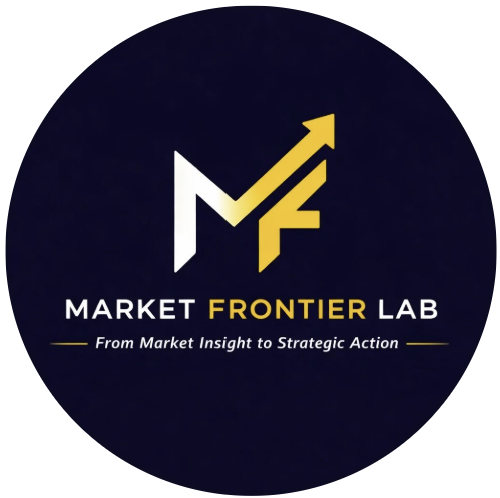
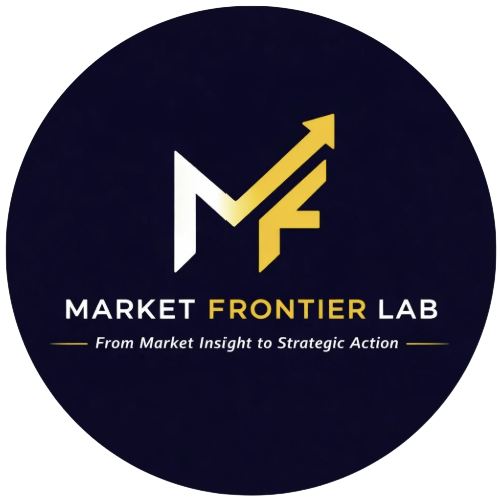
수정중임

diff --git a/index.html b/index.html
@@ -292,6 +292,15 @@
             text-shadow: 0 2px 10px rgba(0, 0, 0, 0.5);
         }
 
+        .hero-wallpaper-logo {
+            max-width: 160px;
+            height: auto;
+            margin-bottom: 35px;
+            object-fit: contain;
+            filter: drop-shadow(0 0 20px rgba(235, 194, 68, 0.35));
+            animation: float-slow 6s ease-in-out infinite;
+        }
+
         .hero-main-title {
             font-family: 'Noto Sans KR', sans-serif;
             font-size: 48px;
@@ -443,6 +452,7 @@
             display: grid;
             grid-template-columns: repeat(3, 1fr);
             gap: 24px;
+            margin-bottom: 80px;
         }
 
         .value-card {
@@ -688,7 +698,7 @@
             color: var(--point-navy);
         }
 
-        /* 📝 9. [COMMUNITY - 활동계획 & 활동기록] 타임라인 */
+        /* 📝 9. 타임라인 구조 (활동기록 & 활동계획 공통) */
         .timeline-container {
             position: relative;
             max-width: 800px;
@@ -1385,7 +1395,6 @@
                     <ul class="dropdown">
                         <li><a onclick="showPage('media')">미디어관</a></li>
                         <li><a onclick="showPage('feed')">피드</a></li>
-                        <li><a onclick="showPage('plan')">활동계획</a></li>
                         <li><a onclick="showPage('history')">활동기록</a></li>
                     </ul>
                 </li>
@@ -1560,7 +1569,7 @@
                     <div class="value-card">
                         <div class="value-num">01</div>
                         <div class="value-title">Market Insight</div>
-                        <p style="color:var(--text-muted); font-size:14px; line-height:1.6;">철저한 데이터 분석과 트렌드 리서치를 기반으로 한
+                        <p style="color:var(--text-muted); font-size:14px; line-height:1.6;">철저한 데이터 분석และ 트렌드 리서치를 기반으로 한
                             거시적/미시적 시장 해석 능력을 배양합니다.</p>
                     </div>
                     <div class="value-card">
@@ -1576,6 +1585,81 @@
                             인프라를 구축하여 동반 성장을 이룩합니다.</p>
                     </div>
                 </div>
+
+                <div class="reveal" style="margin-top: 40px;">
+                    <div style="margin-bottom: 35px; border-bottom: 1px solid var(--point-navy); padding-bottom: 15px;">
+                        <h3 style="font-size: 24px; font-weight: 900; color: var(--point-navy);">MFL 활동 계획</h3>
+                        <p style="color: var(--text-muted); font-size: 14px; margin-top: 5px;">마케팅과 브랜딩의 지평을 넓히기 위한 MFL만의 고품격 실무 커리큘럼입니다.</p>
+                    </div>
+                    <div class="timeline-container">
+                        <div class="timeline-block">
+                            <div class="timeline-icon" style="background-color: var(--point-gold);"></div>
+                            <div class="timeline-card">
+                                <div class="timeline-date">Curriculum 01</div>
+                                <h4 class="timeline-title">🎬 [MAIN] 실전 광고 제작 프로젝트</h4>
+                                <p class="timeline-desc">기획부터 촬영, 편집까지 직접 참여하며 포트폴리오에 떳떳하게 넣을 수 있는 실전 마케팅 경험을 쌓습니다.</p>
+                            </div>
+                        </div>
+                        <div class="timeline-block">
+                            <div class="timeline-icon"></div>
+                            <div class="timeline-card">
+                                <div class="timeline-date">Curriculum 02</div>
+                                <h4 class="timeline-title">📊 파이썬(Python) 활용 통계 프로그램</h4>
+                                <p class="timeline-desc">요즘 취업 시장 필수 역량! 실무 데이터 분석에 바로 활용하는 데이터 역량을 강화합니다.</p>
+                            </div>
+                        </div>
+                        <div class="timeline-block">
+                            <div class="timeline-icon"></div>
+                            <div class="timeline-card">
+                                <div class="timeline-date">Curriculum 03</div>
+                                <h4 class="timeline-title">🏢 기업 탐방 & 현직자 멘토링</h4>
+                                <p class="timeline-desc">실제 산업 현장을 방문하고, 가고 싶은 타겟 직무 현직자에게 직접 실무 인사이트를 체득합니다.</p>
+                            </div>
+                        </div>
+                        <div class="timeline-block">
+                            <div class="timeline-icon"></div>
+                            <div class="timeline-card">
+                                <div class="timeline-date">Curriculum 04</div>
+                                <h4 class="timeline-title">🎪 박람회 참관</h4>
+                                <p class="timeline-desc">최신 산업 트렌드를 직접 파악하고, 비즈니스 모델을 분석하는 안목을 기릅니다.</p>
+                            </div>
+                        </div>
+                        <div class="timeline-block">
+                            <div class="timeline-icon"></div>
+                            <div class="timeline-card">
+                                <div class="timeline-date">Curriculum 05</div>
+                                <h4 class="timeline-title">📈 금융 감각을 깨우는 모의투자 프로그램</h4>
+                                <p class="timeline-desc">시장을 분석하고 나만의 경제·금융 인사이트를 확장합니다.</p>
+                            </div>
+                        </div>
+                        <div class="timeline-block">
+                            <div class="timeline-icon"></div>
+                            <div class="timeline-card">
+                                <div class="timeline-date">Curriculum 06</div>
+                                <h4 class="timeline-title">📦 실전 스마트 SCM 공급망 최적화 프로젝트</h4>
+                                <p class="timeline-desc">시뮬레이션을 통해 채찍효과(Bullwhip Effect)를 직접 진단하고, 제조부터 소매까지의 전 과정에서 실시간 데이터
+                                    공유와 재고 최적화를 실현하는 실전 SCM 운영 능력을 기릅니다.</p>
+                            </div>
+                        </div>
+                        <div class="timeline-block">
+                            <div class="timeline-icon"></div>
+                            <div class="timeline-card">
+                                <div class="timeline-date">Curriculum 07</div>
+                                <h4 class="timeline-title">🗣️ 논리적 사고를 위한 CEDA 토론</h4>
+                                <p class="timeline-desc">논리력과 커뮤니케이션 역량을 키웁니다.</p>
+                            </div>
+                        </div>
+                        <div class="timeline-block">
+                            <div class="timeline-icon" style="background-color: var(--point-gold);"></div>
+                            <div class="timeline-card" style="border-left: 4px solid var(--point-gold);">
+                                <div class="timeline-date">Curriculum 08</div>
+                                <h4 class="timeline-title">🏆 실전 역량 강화를 위한 공모전 참여</h4>
+                                <p class="timeline-desc">팀원들과 협업하여 기획부터 결과 도출까지 진행하며, 실전 직무 성과를 증명하는 포트폴리오를 빌딩합니다.</p>
+                            </div>
+                        </div>
+                    </div>
+                </div>
+
             </div>
         </div>
 
@@ -1670,83 +1754,6 @@
             </div>
         </div>
 
-        <div id="planPage" class="page-content">
-            <div class="container">
-                <div class="page-header reveal">
-                    <div>
-                        <h2>MFL 활동 계획</h2>
-                        <p>마케팅과 브랜딩의 지평을 넓히기 위한 MFL만의 고품격 실무 커리큘럼입니다.</p>
-                    </div>
-                </div>
-                <div class="timeline-container reveal">
-                    <div class="timeline-block">
-                        <div class="timeline-icon" style="background-color: var(--point-gold);"></div>
-                        <div class="timeline-card">
-                            <div class="timeline-date">Curriculum 01</div>
-                            <h4 class="timeline-title">🎬 [MAIN] 실전 광고 제작 프로젝트</h4>
-                            <p class="timeline-desc">기획부터 촬영, 편집까지 직접 참여하며 포트폴리오에 떳떳하게 넣을 수 있는 실전 마케팅 경험을 쌓습니다.</p>
-                        </div>
-                    </div>
-                    <div class="timeline-block">
-                        <div class="timeline-icon"></div>
-                        <div class="timeline-card">
-                            <div class="timeline-date">Curriculum 02</div>
-                            <h4 class="timeline-title">📊 파이썬(Python) 활용 통계 프로그램</h4>
-                            <p class="timeline-desc">요즘 취업 시장 필수 역량! 실무 데이터 분석에 바로 활용하는 데이터 역량을 강화합니다.</p>
-                        </div>
-                    </div>
-                    <div class="timeline-block">
-                        <div class="timeline-icon"></div>
-                        <div class="timeline-card">
-                            <div class="timeline-date">Curriculum 03</div>
-                            <h4 class="timeline-title">🏢 기업 탐방 & 현직자 멘토링</h4>
-                            <p class="timeline-desc">실제 산업 현장을 방문하고, 가고 싶은 타겟 직무 현직자에게 직접 실무 인사이트를 체득합니다.</p>
-                        </div>
-                    </div>
-                    <div class="timeline-block">
-                        <div class="timeline-icon"></div>
-                        <div class="timeline-card">
-                            <div class="timeline-date">Curriculum 04</div>
-                            <h4 class="timeline-title">🎪 박람회 참관</h4>
-                            <p class="timeline-desc">최신 산업 트렌드를 직접 파악하고, 비즈니스 모델을 분석하는 안목을 기릅니다.</p>
-                        </div>
-                    </div>
-                    <div class="timeline-block">
-                        <div class="timeline-icon"></div>
-                        <div class="timeline-card">
-                            <div class="timeline-date">Curriculum 05</div>
-                            <h4 class="timeline-title">📈 금융 감각을 깨우는 모의투자 프로그램</h4>
-                            <p class="timeline-desc">시장을 분석하고 나만의 경제·금융 인사이트를 확장합니다.</p>
-                        </div>
-                    </div>
-                    <div class="timeline-block">
-                        <div class="timeline-icon"></div>
-                        <div class="timeline-card">
-                            <div class="timeline-date">Curriculum 06</div>
-                            <h4 class="timeline-title">📦 실전 스마트 SCM 공급망 최적화 프로젝트</h4>
-                            <p class="timeline-desc">시뮬레이션을 통해 채찍효과(Bullwhip Effect)를 직접 진단하고, 제조부터 소매까지의 전 과정에서 실시간 데이터
-                                공유와 재고 최적화를 실현하는 실전 SCM 운영 능력을 기릅니다.</p>
-                        </div>
-                    </div>
-                    <div class="timeline-block">
-                        <div class="timeline-icon"></div>
-                        <div class="timeline-card">
-                            <div class="timeline-date">Curriculum 07</div>
-                            <h4 class="timeline-title">🗣️ 논리적 사고를 위한 CEDA 토론</h4>
-                            <p class="timeline-desc">논리력과 커뮤니케이션 역량을 키웁니다.</p>
-                        </div>
-                    </div>
-                    <div class="timeline-block">
-                        <div class="timeline-icon" style="background-color: var(--point-gold);"></div>
-                        <div class="timeline-card" style="border-left: 4px solid var(--point-gold);">
-                            <div class="timeline-date">Curriculum 08</div>
-                            <h4 class="timeline-title">🏆 실전 역량 강화를 위한 공모전 참여</h4>
-                            <p class="timeline-desc">팀원들과 협업하여 기획부터 결과 도출까지 진행하며, 실전 직무 성과를 증명하는 포트폴리오를 빌딩합니다.</p>
-                        </div>
-                    </div>
-                </div>
-            </div>
-        </div>
         <div id="calendarPage" class="page-content">
             <div class="container">
                 <div class="page-header reveal">
@@ -1846,7 +1853,7 @@
                 </div>
             </div>
         </div>
-    </main>
+ main>
 
     <div id="loginModal" class="login-modal-overlay">
         <div class="login-card">
@@ -1903,7 +1910,7 @@
         ];
 
         function showPage(pageId) {
-            const communityPages = ['media', 'feed', 'plan', 'history'];
+            const communityPages = ['media', 'feed', 'history'];
 
             if (communityPages.includes(pageId) && !isLoggedIn) {
                 pendingPageId = pageId;
@@ -2042,7 +2049,6 @@
         let calendarEvents = {};
 
         function toggleAdminMode() {
-            // 1. 이미 관리자 모드가 켜져 있다면, 누르는 순간 바로 꺼지도록 처리
             if (isAdminMode) {
                 isAdminMode = false;
                 const btn = document.getElementById('adminBtn');
@@ -2053,19 +2059,16 @@
                 return;
             }
 
-            // 2. 관리자 모드가 꺼져 있을 때 누르면 비밀번호 입력창(prompt) 띄우기
             const pwInput = prompt("MFL 관리자 번호를 입력하세요:");
 
-            // 3. 비밀번호 검증 (로그인과 동일하게 2026으로 설정)
             if (pwInput === '2026') {
                 isAdminMode = true;
                 const btn = document.getElementById('adminBtn');
                 btn.innerText = "🔓 관리자 모드 : ON ";
                 btn.classList.add('admin-active');
                 alert("관리자 인증에 성공했습니다!");
-                renderCalendar(); // 일정 클릭 권한 활성화를 위해 달력 새로고침
+                renderCalendar();
             } else if (pwInput !== null) {
-                // 취소 버튼을 누른 게 아니라 틀린 번호를 입력했을 때만 경고창
                 alert("비밀번호가 일치하지 않습니다.");
             }
         }